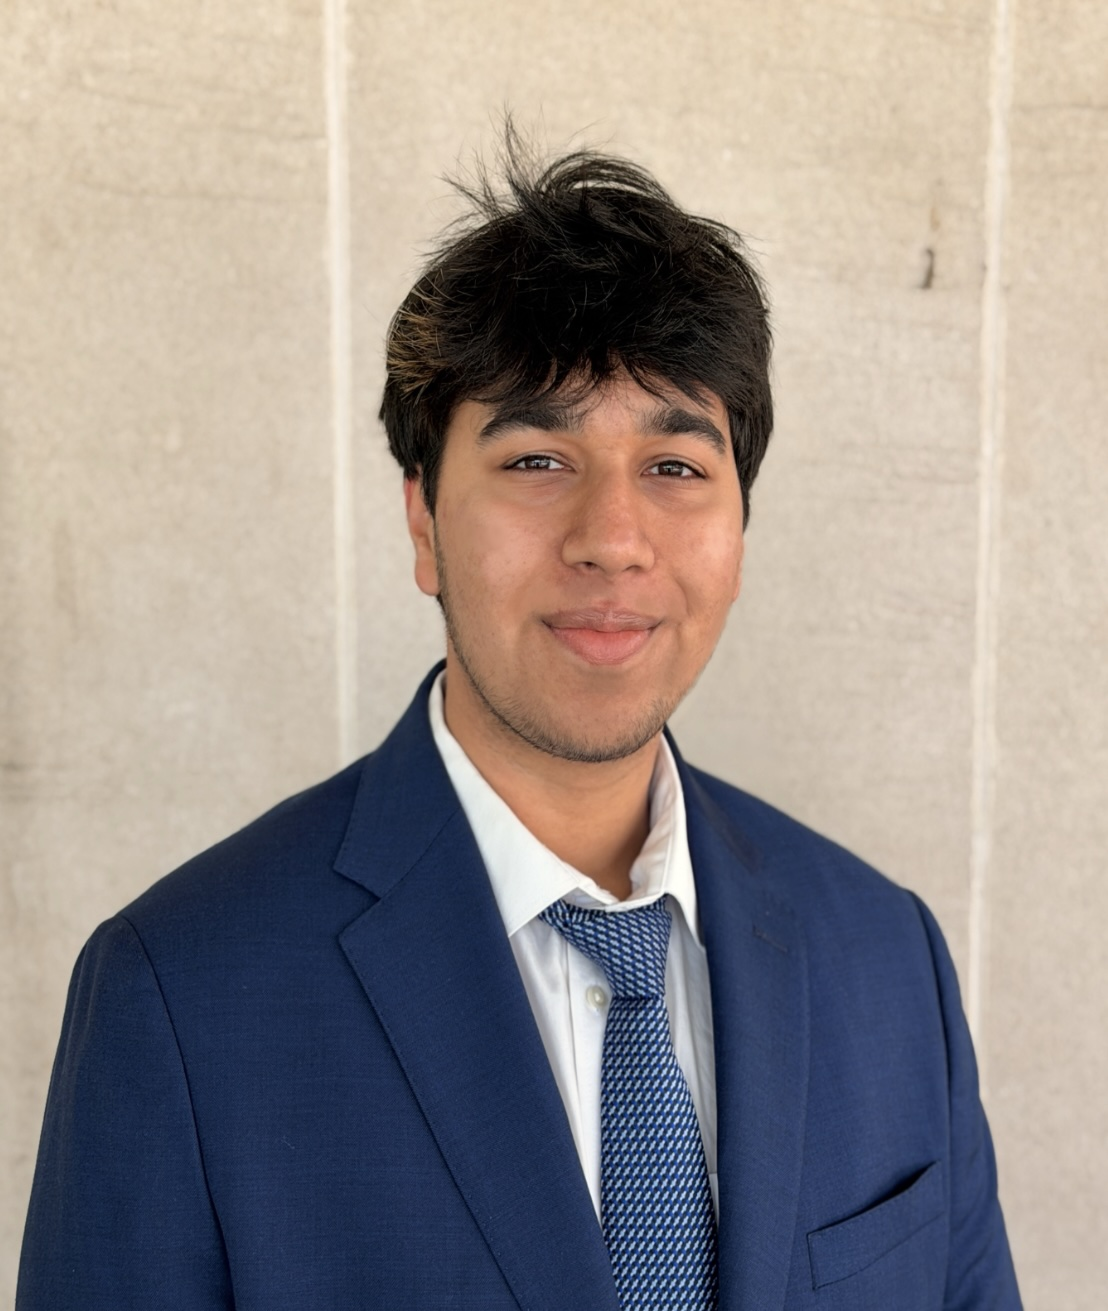
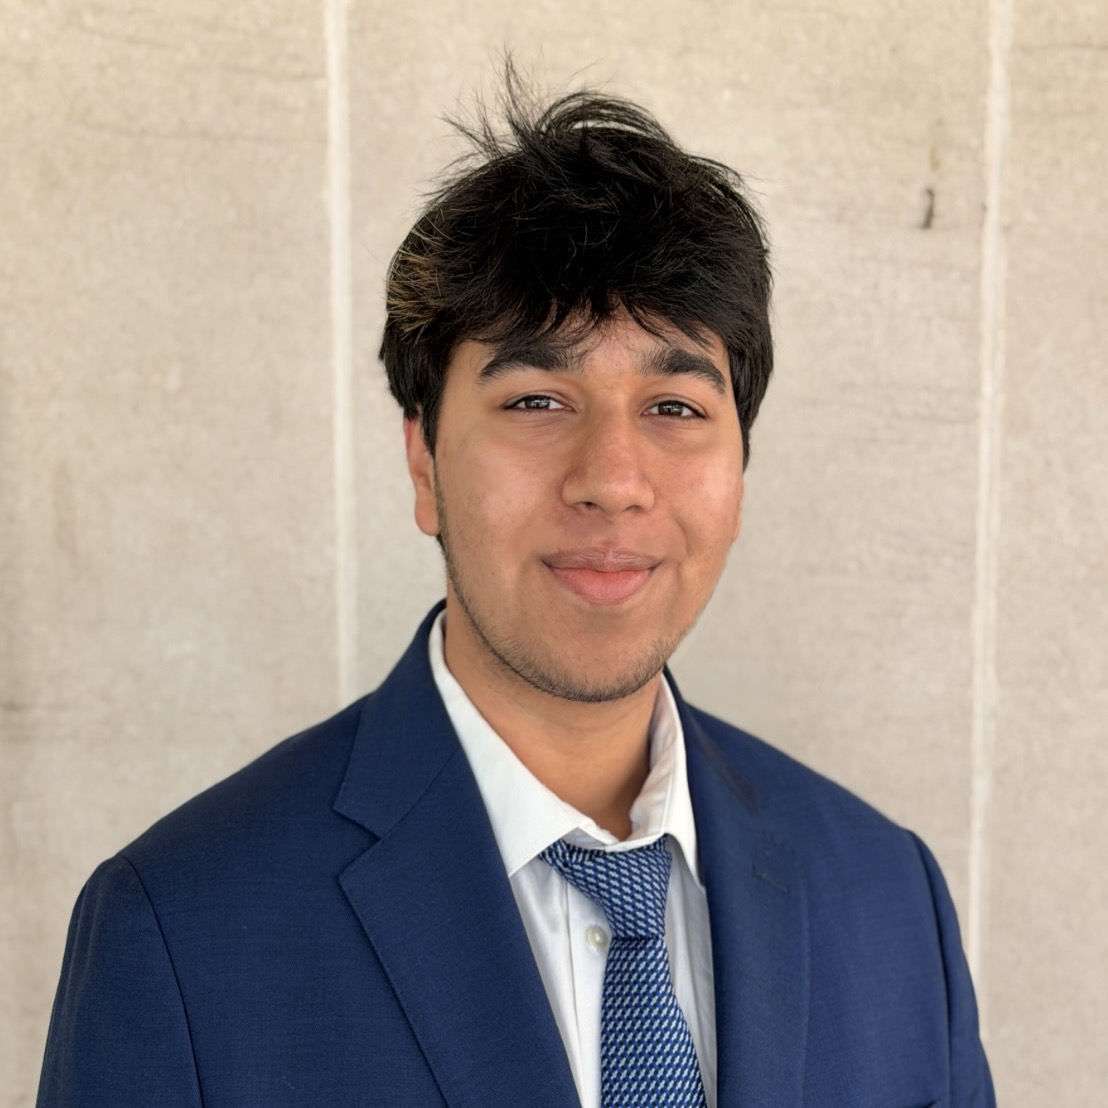
update profiles

diff --git a/_pages/profiles.md b/_pages/profiles.md
@@ -75,6 +75,10 @@ profiles:
     content: about_jack_zweifel.md
     image_circular: true # crops the image to make it circular
   - align: right
+    image: panchali_choudhary.JPG
+    content: about_panchali_choudhary.md
+    image_circular: true # crops the image to make it circular
+  - align: right
     image: daniel_boscu.jpg
     content: about_daniel_boscu.md
     image_circular: true # crops the image to make it circular

diff --git a/_pages/about_panchali_choudhary.md b/_pages/about_panchali_choudhary.md
@@ -1,0 +1,5 @@
+# Panchali Choudhary
+
+##### _Research Assistant_
+
+University of Chicago, B.A. Economics (2026)
